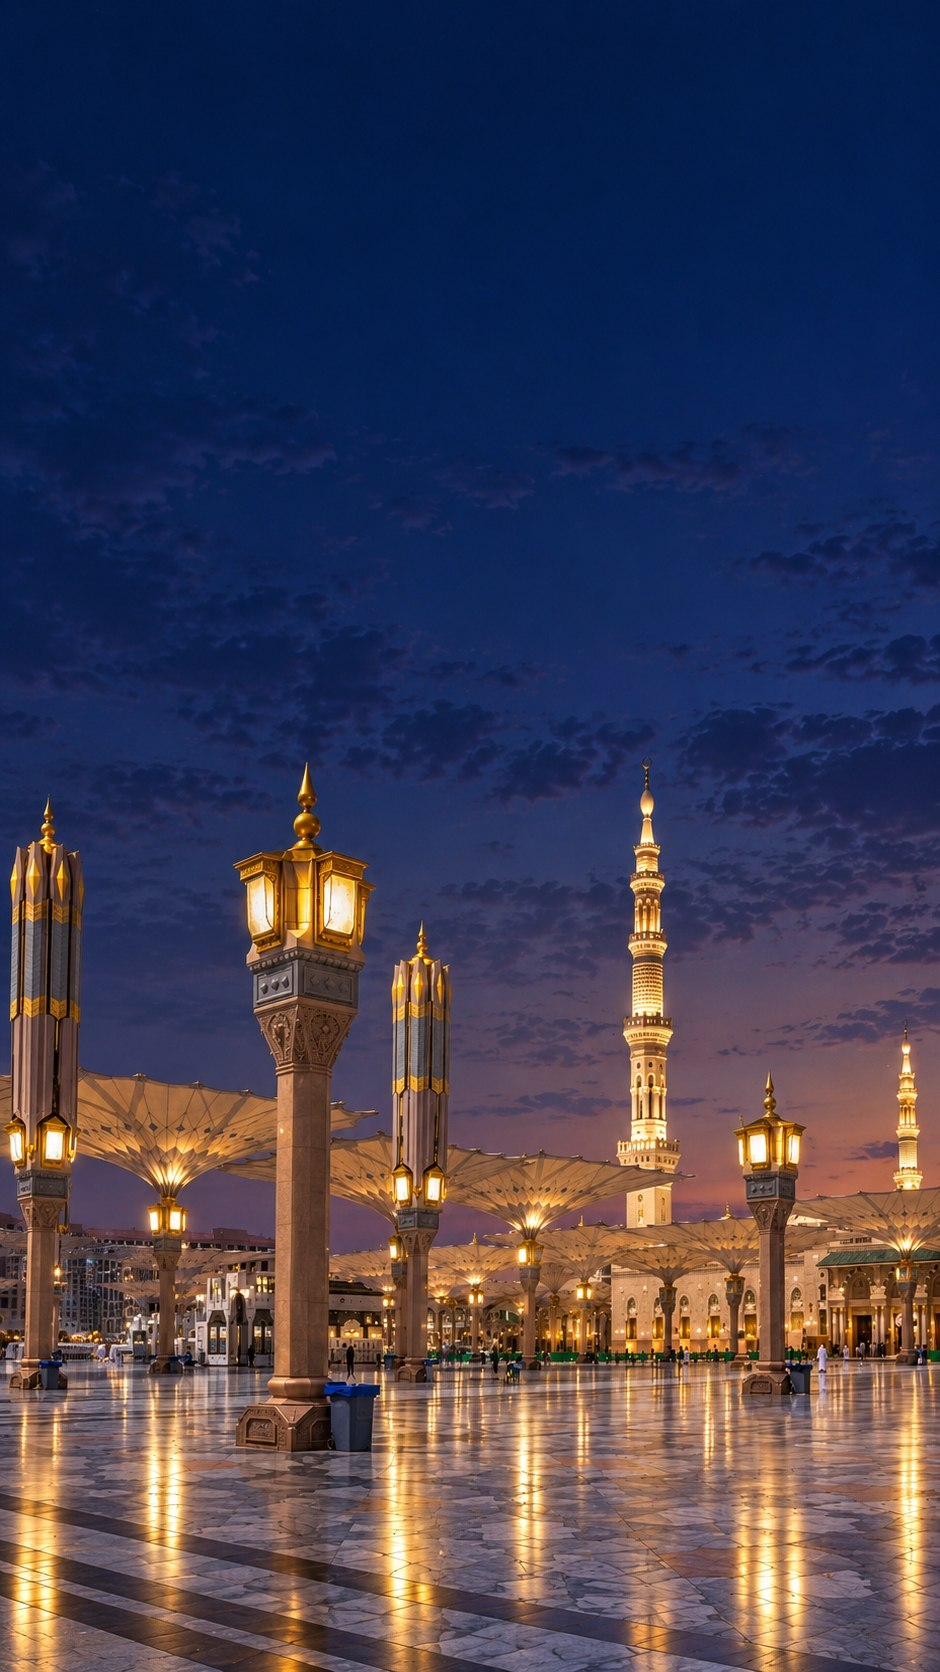
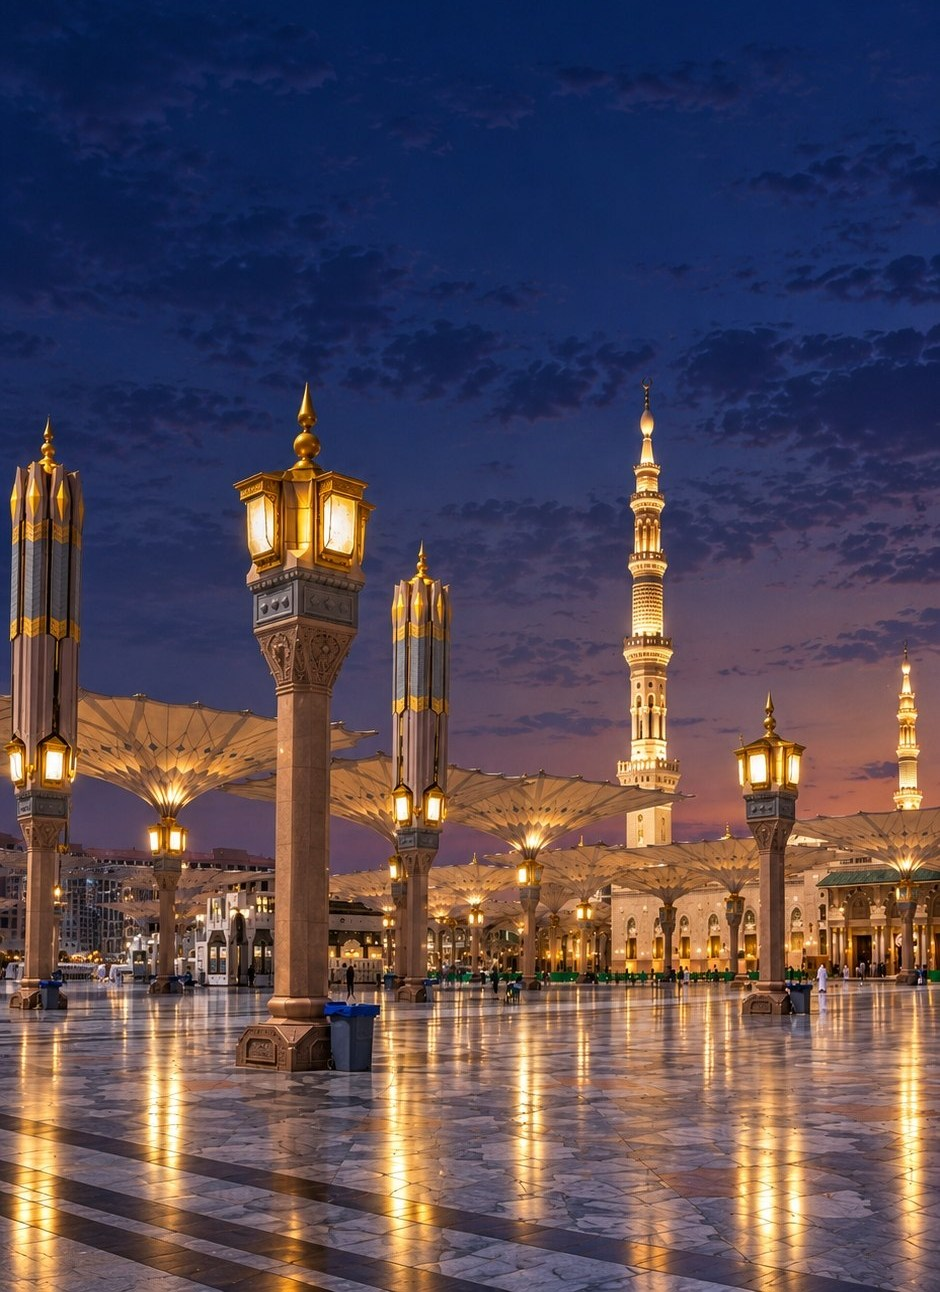
Фон героя на мобильном поднят: меньше пустого неба
Картинка по высоте ровно закрывала экран, поэтому background-position
ничего не двигал — мечеть показывалась только у нижнего края первого
экрана, а сверху висело пустое небо. Обрезал у исходника 380 пикселей
сверху: теперь лампы и минарет попадают в первый экран.

Оригинал целиком сохранён в source/hero-mobile-full.jpg — если понадобится
другое кадрирование, режем заново от него.

diff --git a/public/assets/css/styles.css b/public/assets/css/styles.css
@@ -569,12 +569,15 @@ footer{background:#060E1B;color:var(--on-night-soft);padding:60px 0 30px}
   .brand img{height:46px}
   .talbiya small{letter-spacing:.07em;font-size:12px}
   .ts-feats{flex-direction:column;align-items:flex-start;width:max-content;margin-left:auto;margin-right:auto;gap:12px}
-  /* вертикальный кадр Мечети Пророка */
+  /* Вертикальный кадр Мечети Пророка. Кадрирование зашито в сам файл:
+     по высоте картинка ровно закрывает герой, поэтому сдвигать её
+     через background-position бесполезно — двигать надо кроп исходника
+     (оригинал целиком лежит в source/hero-mobile-full.jpg). */
   .hero{background:linear-gradient(180deg,rgba(7,15,28,.34) 0%,rgba(7,15,28,.46) 38%,rgba(7,15,28,.48) 82%,rgba(7,15,28,.92) 100%),url("../img/hero-mobile.jpg");
-    background-size:auto,cover;background-position:center,center 22%;background-repeat:no-repeat}
+    background-size:auto,cover;background-position:center,center;background-repeat:no-repeat}
   :root[data-theme="light"] .hero{
     background:linear-gradient(180deg,rgba(250,247,241,.6) 0%,rgba(250,247,241,.82) 45%,rgba(250,247,241,.96) 100%),url("../img/hero-mobile.jpg");
-    background-size:auto,cover;background-position:center,center 22%;background-repeat:no-repeat}
+    background-size:auto,cover;background-position:center,center;background-repeat:no-repeat}
   .book-panel,.summary,.cform{padding:22px}
   /* «Навигация» и «Связаться» стоят рядом, логотип с описанием — над ними */
   .foot-top{grid-template-columns:1fr 1fr;gap:26px 22px;padding-bottom:22px}
